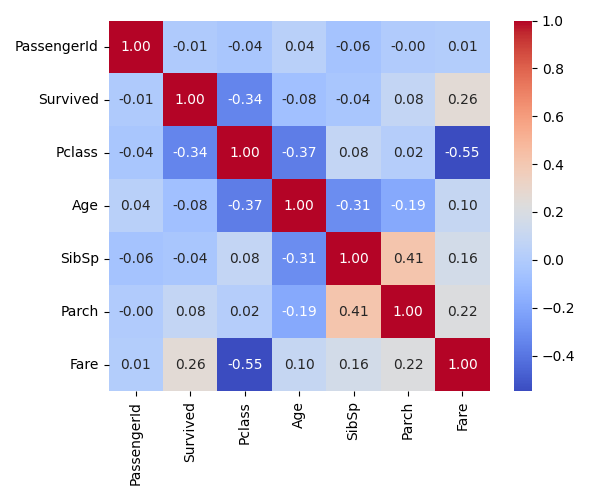
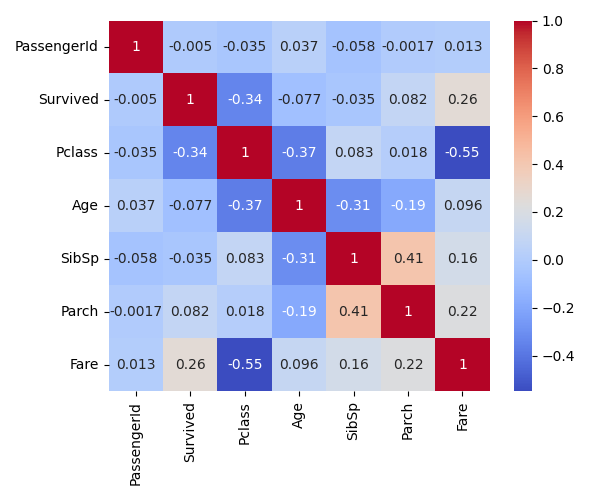
Fixed resul

diff --git a/templates/result.html b/templates/result.html
@@ -1,99 +1,131 @@
 <!DOCTYPE html>
 <html>
 <head>
-    <title>Excel Insights – EDA Dashboard</title>
+    <title>Excel Insights – EDA Report</title>
+    <link href="https://fonts.googleapis.com/css2?family=Inter:wght@400;600;700&display=swap" rel="stylesheet">
+
     <style>
-        body { font-family: "Segoe UI", Arial; background: #f5f7fa; padding: 20px; }
-        h1 { text-align: center; color: #2c3e50; margin-bottom: 40px; }
-        .card { background: white; padding: 20px; border-radius: 10px; box-shadow: 0 4px 10px rgba(0,0,0,0.08); margin-bottom: 30px; }
-        .stats { display: flex; gap: 20px; margin-bottom: 20px; }
-        .stat-box { flex: 1; background: #ecf0f1; padding: 15px; border-radius: 8px; text-align: center; }
-        table { width: 100%; border-collapse: collapse; margin-top: 15px; }
-        th, td { padding: 10px; border-bottom: 1px solid #ddd; }
-        th { background: #34495e; color: white; }
-        img { width: 100%; max-width: 700px; border-radius: 8px; margin-top: 15px; }
-        h2 { color: #2980b9; margin-top: 30px; }
-        h3 { color: #34495e; margin-top: 20px; }
+        body {
+            font-family: 'Inter', sans-serif;
+            background: #f4f6f9;
+            padding: 30px;
+            color: #2c3e50;
+        }
+
+        h1 {
+            text-align: center;
+            margin-bottom: 50px;
+        }
+
+        .sheet {
+            background: white;
+            padding: 30px;
+            border-radius: 14px;
+            box-shadow: 0 8px 25px rgba(0,0,0,0.08);
+            margin-bottom: 50px;
+        }
+
+        .kpi {
+            display: grid;
+            grid-template-columns: repeat(auto-fit, minmax(180px,1fr));
+            gap: 20px;
+            margin-bottom: 40px;
+        }
+
+        .kpi div {
+            background: #3498db;
+            color: white;
+            padding: 20px;
+            border-radius: 12px;
+            text-align: center;
+        }
+
+        h3 {
+            margin-top: 40px;
+            margin-bottom: 15px;
+        }
+
+        table {
+            width: 100%;
+            border-collapse: collapse;
+        }
+
+        th, td {
+            padding: 10px;
+            border-bottom: 1px solid #ddd;
+        }
+
+        th {
+            background: #2c3e50;
+            color: white;
+        }
+
+        .plots {
+            display: grid;
+            grid-template-columns: repeat(auto-fit, minmax(320px,1fr));
+            gap: 25px;
+            margin-top: 20px;
+        }
+
+        .plot {
+            background: #f8f9fa;
+            padding: 15px;
+            border-radius: 12px;
+            text-align: center;
+        }
+
+        .plot img {
+            width: 100%;
+            border-radius: 10px;
+        }
+
+        footer {
+            text-align: center;
+            margin-top: 60px;
+            color: #777;
+        }
     </style>
 </head>
+
 <body>
-<h1>📊 Excel Insights – Full EDA</h1>
+
+<h1>📊 Excel Insights – Exploratory Data Analysis</h1>
 
 {% for sheet, data in eda.items() %}
-<div class="card">
+<div class="sheet">
 
-    <h2>📄 Sheet: {{ sheet }}</h2>
+    <h2>📄 {{ sheet }}</h2>
 
-    <!-- Overview -->
-    <div class="stats">
-        <div class="stat-box"><h3>{{ data.rows }}</h3><p>Total Rows</p></div>
-        <div class="stat-box"><h3>{{ data.columns }}</h3><p>Total Columns</p></div>
-        <div class="stat-box"><h3>{{ data.memory_usage }}</h3><p>Memory Usage</p></div>
-        <div class="stat-box"><h3>{{ data.duplicates }}</h3><p>Duplicate Rows</p></div>
+    <div class="kpi">
+        <div><h2>{{ data.rows }}</h2><p>Rows</p></div>
+        <div><h2>{{ data.columns }}</h2><p>Columns</p></div>
+        <div><h2>{{ data.duplicates }}</h2><p>Duplicates</p></div>
     </div>
 
-    <!-- Sample Data -->
-    <h3>📝 Sample Data</h3>
-    <table>
-        <tr>{% for col in data.sample[0].keys() %}<th>{{ col }}</th>{% endfor %}</tr>
-        {% for row in data.sample %}
-        <tr>{% for val in row.values() %}<td>{{ val }}</td>{% endfor %}</tr>
-        {% endfor %}
-    </table>
-
-    <!-- Missing Values -->
     <h3>🔍 Missing Values</h3>
     <table>
-        <tr><th>Column</th><th>Missing Count</th><th>Missing %</th></tr>
-        {% for col, val in data.missing_values.items() %}
-        <tr>
-            <td>{{ col }}</td>
-            <td>{{ val }}</td>
-            <td>{{ data.missing_percentage[col] }}%</td>
-        </tr>
-        {% endfor %}
-    </table>
-
-    <!-- Numeric Summary -->
-    <h3>📈 Numeric Summary</h3>
-    {% for col, stats in data.summary_numeric.items() %}
-        <h4>{{ col }}</h4>
-        <table>
-        {% for stat, val in stats.items() %}
-            <tr><td>{{ stat }}</td><td>{{ val }}</td></tr>
-        {% endfor %}
-        </table>
-    {% endfor %}
-
-    <!-- Categorical Summary -->
-    <h3>📊 Categorical Summary</h3>
-    {% for col, stats in data.summary_categorical.items() %}
-        <h4>{{ col }}</h4>
-        <table>
-        {% for stat, val in stats.items() %}
-            <tr><td>{{ stat }}</td><td>{{ val }}</td></tr>
-        {% endfor %}
-        </table>
-    {% endfor %}
-
-    <!-- Outliers -->
-    <h3>⚠ Outliers (IQR method)</h3>
-    <table>
-        <tr><th>Column</th><th>Outlier Count</th></tr>
-        {% for col, val in data.outliers.items() %}
+        <tr><th>Column</th><th>Missing Count</th></tr>
+        {% for col,val in data.missing.items() %}
         <tr><td>{{ col }}</td><td>{{ val }}</td></tr>
         {% endfor %}
     </table>
 
-    <!-- Plots -->
     <h3>📊 Visual Analysis</h3>
-    {% for key, plot in data.plots.items() %}
-        <h4>{{ key.replace('_',' ').title() }}</h4>
-        <img src="/{{ plot }}" alt="{{ key }}">
-    {% endfor %}
+    <div class="plots">
+        {% for name, plot in data.plots.items() %}
+        <div class="plot">
+            <h4>{{ name.replace('_',' ').title() }}</h4>
+            <img src="/{{ plot }}">
+        </div>
+        {% endfor %}
+    </div>
 
 </div>
 {% endfor %}
+
+<footer>
+    Generated by Excel Insights Engine • Automated EDA
+</footer>
 
 </body>
 </html>

diff --git a/insights/report.py b/insights/report.py
@@ -1,112 +1,78 @@
 import pandas as pd
-import numpy as np
 import os
 import matplotlib.pyplot as plt
 import seaborn as sns
-from scipy.stats import skew, kurtosis
 
-# Directory for saving plots
 PLOT_DIR = "static/plots"
 os.makedirs(PLOT_DIR, exist_ok=True)
 
-def generate_plots(df, sheet_name):
-    """Generate histograms, boxplots, correlation heatmap."""
-    plots = {}
-    numeric_cols = df.select_dtypes(include="number")
-    
-    if numeric_cols.empty:
-        return plots
-    
-    # Histogram & Boxplot
-    for col in numeric_cols.columns:
-        # Histogram
-        plt.figure(figsize=(4,3))
-        sns.histplot(numeric_cols[col].dropna(), kde=True, color='skyblue')
-        plt.title(f"{col} Distribution")
-        hist_path = f"{PLOT_DIR}/{sheet_name}_{col}_hist.png"
-        plt.tight_layout()
-        plt.savefig(hist_path)
-        plt.close()
-        plots[f"{col}_hist"] = hist_path
-
-        # Boxplot
-        plt.figure(figsize=(4,3))
-        sns.boxplot(x=numeric_cols[col], color='salmon')
-        plt.title(f"{col} Boxplot")
-        box_path = f"{PLOT_DIR}/{sheet_name}_{col}_box.png"
-        plt.tight_layout()
-        plt.savefig(box_path)
-        plt.close()
-        plots[f"{col}_box"] = box_path
-
-    # Correlation heatmap
-    if len(numeric_cols.columns) > 1:
-        plt.figure(figsize=(6,5))
-        sns.heatmap(numeric_cols.corr(), annot=True, cmap='coolwarm', fmt=".2f")
-        heatmap_path = f"{PLOT_DIR}/{sheet_name}_corr.png"
-        plt.tight_layout()
-        plt.savefig(heatmap_path)
-        plt.close()
-        plots["correlation_heatmap"] = heatmap_path
-
-    return plots
-
-def detect_outliers(df):
-    """Detect outliers using IQR method for numeric columns."""
-    numeric_cols = df.select_dtypes(include="number")
-    outliers = {}
-    for col in numeric_cols.columns:
-        Q1 = numeric_cols[col].quantile(0.25)
-        Q3 = numeric_cols[col].quantile(0.75)
-        IQR = Q3 - Q1
-        outliers[col] = int(((numeric_cols[col] < Q1 - 1.5*IQR) | (numeric_cols[col] > Q3 + 1.5*IQR)).sum())
-    return outliers
-
-def generate_report(excel_data: dict):
-    """Generate full EDA for all sheets in the Excel file."""
+def generate_report(excel_data):
     eda_report = {}
-    
-    for sheet_name, df in excel_data.items():
+
+    for sheet, df in excel_data.items():
         report = {}
 
-        # Basic info
+        # ---------------- BASIC INFO ----------------
         report["rows"] = df.shape[0]
         report["columns"] = df.shape[1]
-        report["memory_usage"] = f"{round(df.memory_usage(deep=True).sum()/1024**2,2)} MB"
         report["duplicates"] = int(df.duplicated().sum())
-        report["dtypes"] = df.dtypes.apply(lambda x: str(x)).to_dict()
+        report["missing"] = df.isnull().sum().to_dict()
 
-        # Sample rows
-        report["sample"] = df.head(5).to_dict(orient="records")
+        # ---------------- NUMERIC EDA ----------------
+        num_df = df.select_dtypes(include="number")
+        report["numeric_summary"] = num_df.describe().round(2).to_dict()
 
-        # Missing values
-        report["missing_values"] = df.isnull().sum().to_dict()
-        report["missing_percentage"] = (df.isnull().mean()*100).round(2).to_dict()
+        plots = {}
 
-        # Numeric summary
-        numeric_cols = df.select_dtypes(include="number")
-        report["summary_numeric"] = numeric_cols.describe().to_dict() if not numeric_cols.empty else {}
+        for col in num_df.columns:
+            # Histogram
+            plt.figure(figsize=(5,4))
+            sns.histplot(num_df[col].dropna(), kde=True)
+            path = f"{PLOT_DIR}/{sheet}_{col}_hist.png"
+            plt.title(f"{col} Distribution")
+            plt.tight_layout()
+            plt.savefig(path)
+            plt.close()
+            plots[f"{col}_hist"] = path
 
-        # Skewness & Kurtosis
-        skewness = {col: float(skew(numeric_cols[col].dropna())) for col in numeric_cols.columns} if not numeric_cols.empty else {}
-        kurt = {col: float(kurtosis(numeric_cols[col].dropna())) for col in numeric_cols.columns} if not numeric_cols.empty else {}
-        report["skewness"] = skewness
-        report["kurtosis"] = kurt
+            # Boxplot
+            plt.figure(figsize=(5,4))
+            sns.boxplot(x=num_df[col])
+            path = f"{PLOT_DIR}/{sheet}_{col}_box.png"
+            plt.title(f"{col} Boxplot")
+            plt.tight_layout()
+            plt.savefig(path)
+            plt.close()
+            plots[f"{col}_box"] = path
 
-        # Categorical summary
-        categorical_cols = df.select_dtypes(include="object")
-        report["summary_categorical"] = categorical_cols.describe().to_dict() if not categorical_cols.empty else {}
+        # Correlation Heatmap
+        if num_df.shape[1] > 1:
+            plt.figure(figsize=(6,5))
+            sns.heatmap(num_df.corr(), annot=True, cmap="coolwarm")
+            path = f"{PLOT_DIR}/{sheet}_corr.png"
+            plt.tight_layout()
+            plt.savefig(path)
+            plt.close()
+            plots["correlation"] = path
 
-        # Correlation
-        report["correlation"] = numeric_cols.corr().to_dict() if len(numeric_cols.columns) > 1 else {}
+        # ---------------- CATEGORICAL EDA ----------------
+        cat_df = df.select_dtypes(include="object")
 
-        # Outliers
-        report["outliers"] = detect_outliers(df)
+        for col in cat_df.columns:
+            top = cat_df[col].value_counts().head(5)
 
-        # Plots
-        report["plots"] = generate_plots(df, sheet_name)
+            if len(top) > 1:
+                plt.figure(figsize=(5,5))
+                top.plot.pie(autopct="%1.1f%%", startangle=90)
+                plt.title(f"{col} Distribution")
+                plt.ylabel("")
+                path = f"{PLOT_DIR}/{sheet}_{col}_pie.png"
+                plt.tight_layout()
+                plt.savefig(path)
+                plt.close()
+                plots[f"{col}_pie"] = path
 
-        # Add to main report
-        eda_report[sheet_name] = report
+        report["plots"] = plots
+        eda_report[sheet] = report
 
     return eda_report
